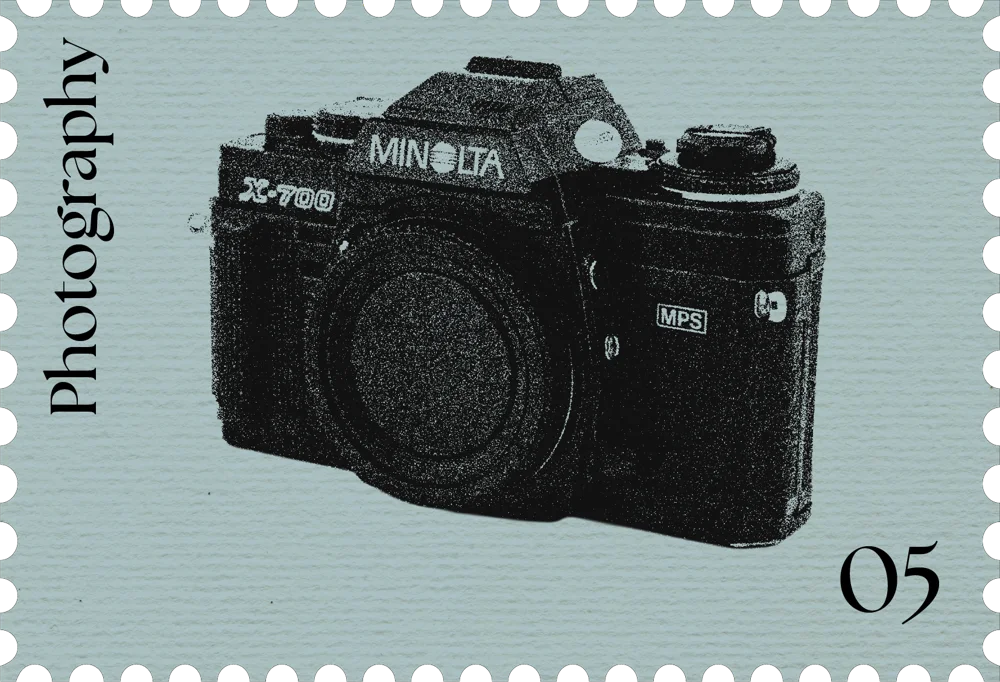
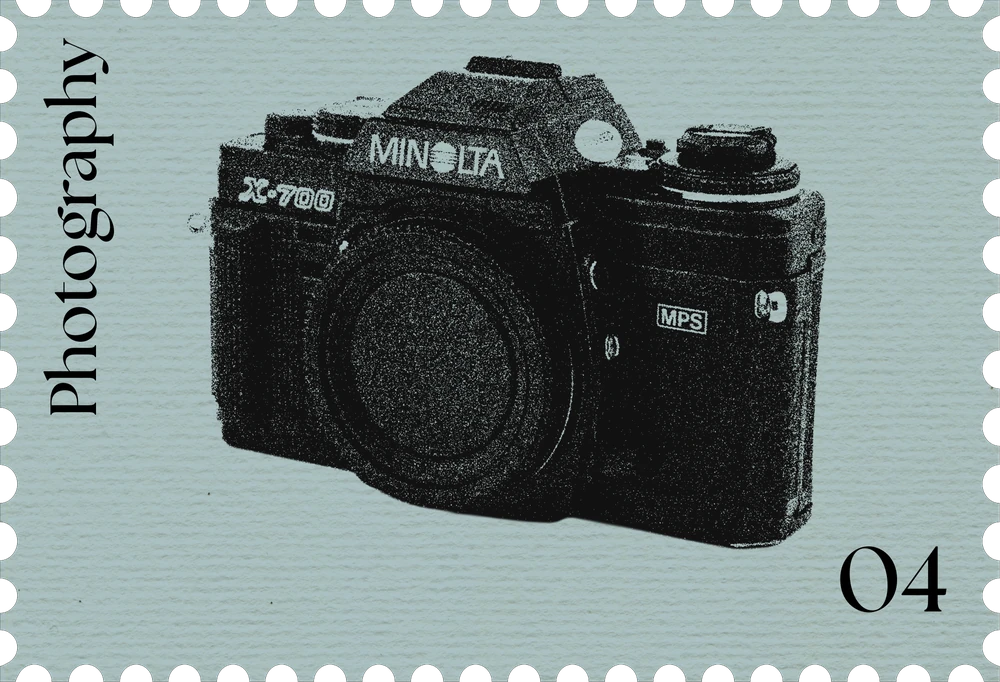
Reorder stamps (About is now 05) with renumbered artwork
Claude-Session: https://claude.ai/code/session_01WiGBB2B8UAKxkwyxCHAhPq

diff --git a/src/lib/content.ts b/src/lib/content.ts
@@ -135,9 +135,9 @@ export function buildSections(c: SiteContent): Section[] {
   return [
     { id: 'projects', no: '01', label: 'Projects', stampName: 'Web & Graphic Design', orientation: 'portrait', ratio: 1130 / 1657, alt: 'Stamp 01, Web and Graphic Design, a vintage computer', html: projectsHtml(c) },
     { id: 'experience', no: '02', label: 'Experience', stampName: 'Work History', orientation: 'landscape', ratio: 1658 / 1130, alt: 'Stamp 02, Work History, a vintage suitcase', html: experienceHtml(c) },
-    { id: 'about', no: '03', label: 'About', stampName: 'About', orientation: 'portrait', ratio: 1130 / 1657, alt: 'Stamp 03, About, a halftone portrait of Matt', html: aboutHtml() },
-    { id: 'crafts', no: '04', label: 'Crafts', stampName: 'Crafts', orientation: 'portrait', ratio: 1130 / 1657, alt: 'Stamp 04, Crafts, six pieces of pottery', html: craftsHtml(c) },
-    { id: 'photography', no: '05', label: 'Photography', stampName: 'Photography', orientation: 'landscape', ratio: 1658 / 1130, alt: 'Stamp 05, Photography, a Minolta X-700 film camera', html: photographyHtml(c) },
+    { id: 'crafts', no: '03', label: 'Crafts', stampName: 'Crafts', orientation: 'portrait', ratio: 1130 / 1657, alt: 'Stamp 03, Crafts, six pieces of pottery', html: craftsHtml(c) },
+    { id: 'photography', no: '04', label: 'Photography', stampName: 'Photography', orientation: 'landscape', ratio: 1658 / 1130, alt: 'Stamp 04, Photography, a Minolta X-700 film camera', html: photographyHtml(c) },
+    { id: 'about', no: '05', label: 'About', stampName: 'About', orientation: 'portrait', ratio: 1130 / 1657, alt: 'Stamp 05, About, a halftone portrait of Matt', html: aboutHtml() },
   ];
 }
 

diff --git a/src/lib/engine.ts b/src/lib/engine.ts
@@ -116,16 +116,16 @@ interface NavSpot { x: number; y: number; w: number }
 const navDesktop: Record<SectionId, NavSpot> = {
   projects: { x: 0.2, y: 0.5, w: 0.15 },
   experience: { x: 0.37, y: 0.4, w: 0.19 },
-  about: { x: 0.54, y: 0.57, w: 0.14 },
-  crafts: { x: 0.69, y: 0.42, w: 0.155 },
-  photography: { x: 0.85, y: 0.58, w: 0.19 },
+  crafts: { x: 0.54, y: 0.57, w: 0.155 },
+  photography: { x: 0.7, y: 0.42, w: 0.19 },
+  about: { x: 0.86, y: 0.58, w: 0.14 },
 };
 const navMobile: Record<SectionId, NavSpot> = {
   projects: { x: 0.3, y: 0.2, w: 0.38 },
   experience: { x: 0.68, y: 0.33, w: 0.5 },
-  about: { x: 0.3, y: 0.5, w: 0.36 },
-  crafts: { x: 0.7, y: 0.66, w: 0.38 },
-  photography: { x: 0.42, y: 0.86, w: 0.52 },
+  crafts: { x: 0.3, y: 0.5, w: 0.38 },
+  photography: { x: 0.64, y: 0.66, w: 0.5 },
+  about: { x: 0.3, y: 0.85, w: 0.34 },
 };
 
 function buildStamps() {
